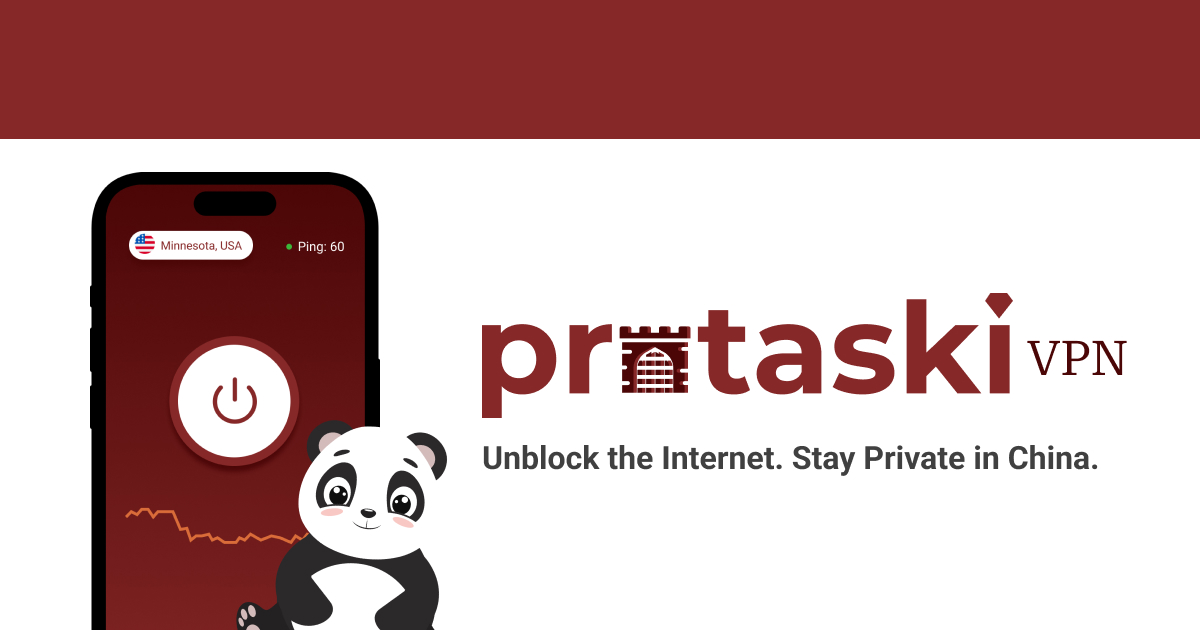
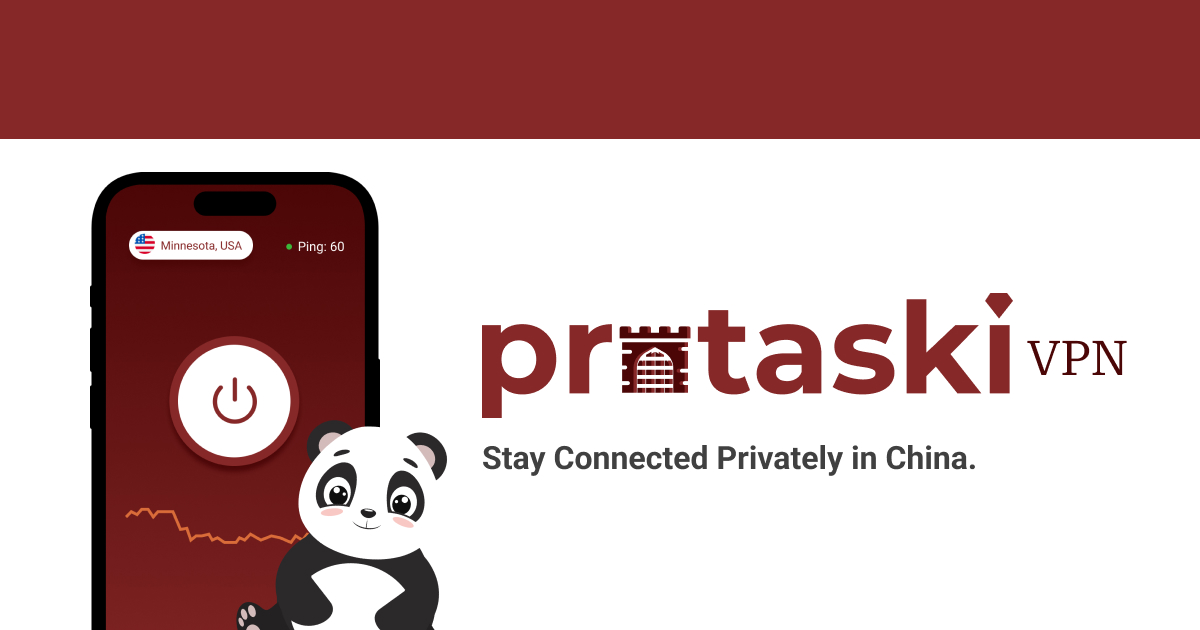
rename to adhere with ad rules

Changed region(s): [[0.4008, 0.6937, 0.925, 0.754]]

diff --git a/public/index.html b/public/index.html
@@ -22,20 +22,20 @@
         <link rel="manifest" href="/site.webmanifest" />
         <meta
             name="description"
-            content="Protaski is a premium VPN service designed for China. Stay private, secure, and fast with WireGuard to bypass strict censorship."
+            content="Stay connected while traveling or living in China with a fast, secure VPN."
         />
         <meta
             name="keywords"
-            content="Protaski, VPN, China, Internet Freedom, Privacy, Secure, WireGuard"
+            content="Protaski, VPN, China, Privacy, Secure, WireGuard"
         />
         <meta name="robots" content="index,follow" />
         <meta
             property="og:title"
-            content="Protaski - Unblock the Internet. Stay Private in China."
+            content="Protaski VPN - Stay Connected Privately in China."
         />
         <meta
             property="og:description"
-            content="Unblock the Internet. Stay Private in China using Protaski VPN."
+            content="Stay Connected Privately in China using Protaski VPN."
         />
         <meta
             property="og:image"
@@ -524,7 +524,7 @@
                     />
                 </svg>
             </div>
-            <h2>Unblock the Internet. Stay Private in China.</h2>
+            <h2>Stay Connected Privately in China.</h2>
             <section class="features-section">
                 <div class="features-container">
                     <img
@@ -534,16 +534,16 @@
                     />
                     <div class="feature-items">
                         <p class="feature-overview">
-                            The premium VPN built for China—stay private,
-                            secure, and fast. WireGuard ensures seamless access
-                            to the open internet, even against the latest
-                            censorship updates.
+                            The premium VPN designed for seamless, secure
+                            internet access while traveling or living in China.
+                            Powered by WireGuard for fast and reliable
+                            connectivity.
                         </p>
                         <p class="feature-item">
                             🌍
                             <b
-                                >Stay Connected: Works Even Under China's
-                                Strictest Blocks</b
+                                >Stay Connected: High-Speed Servers for Reliable
+                                Browsing</b
                             >
                         </p>
                         <p class="feature-item">
